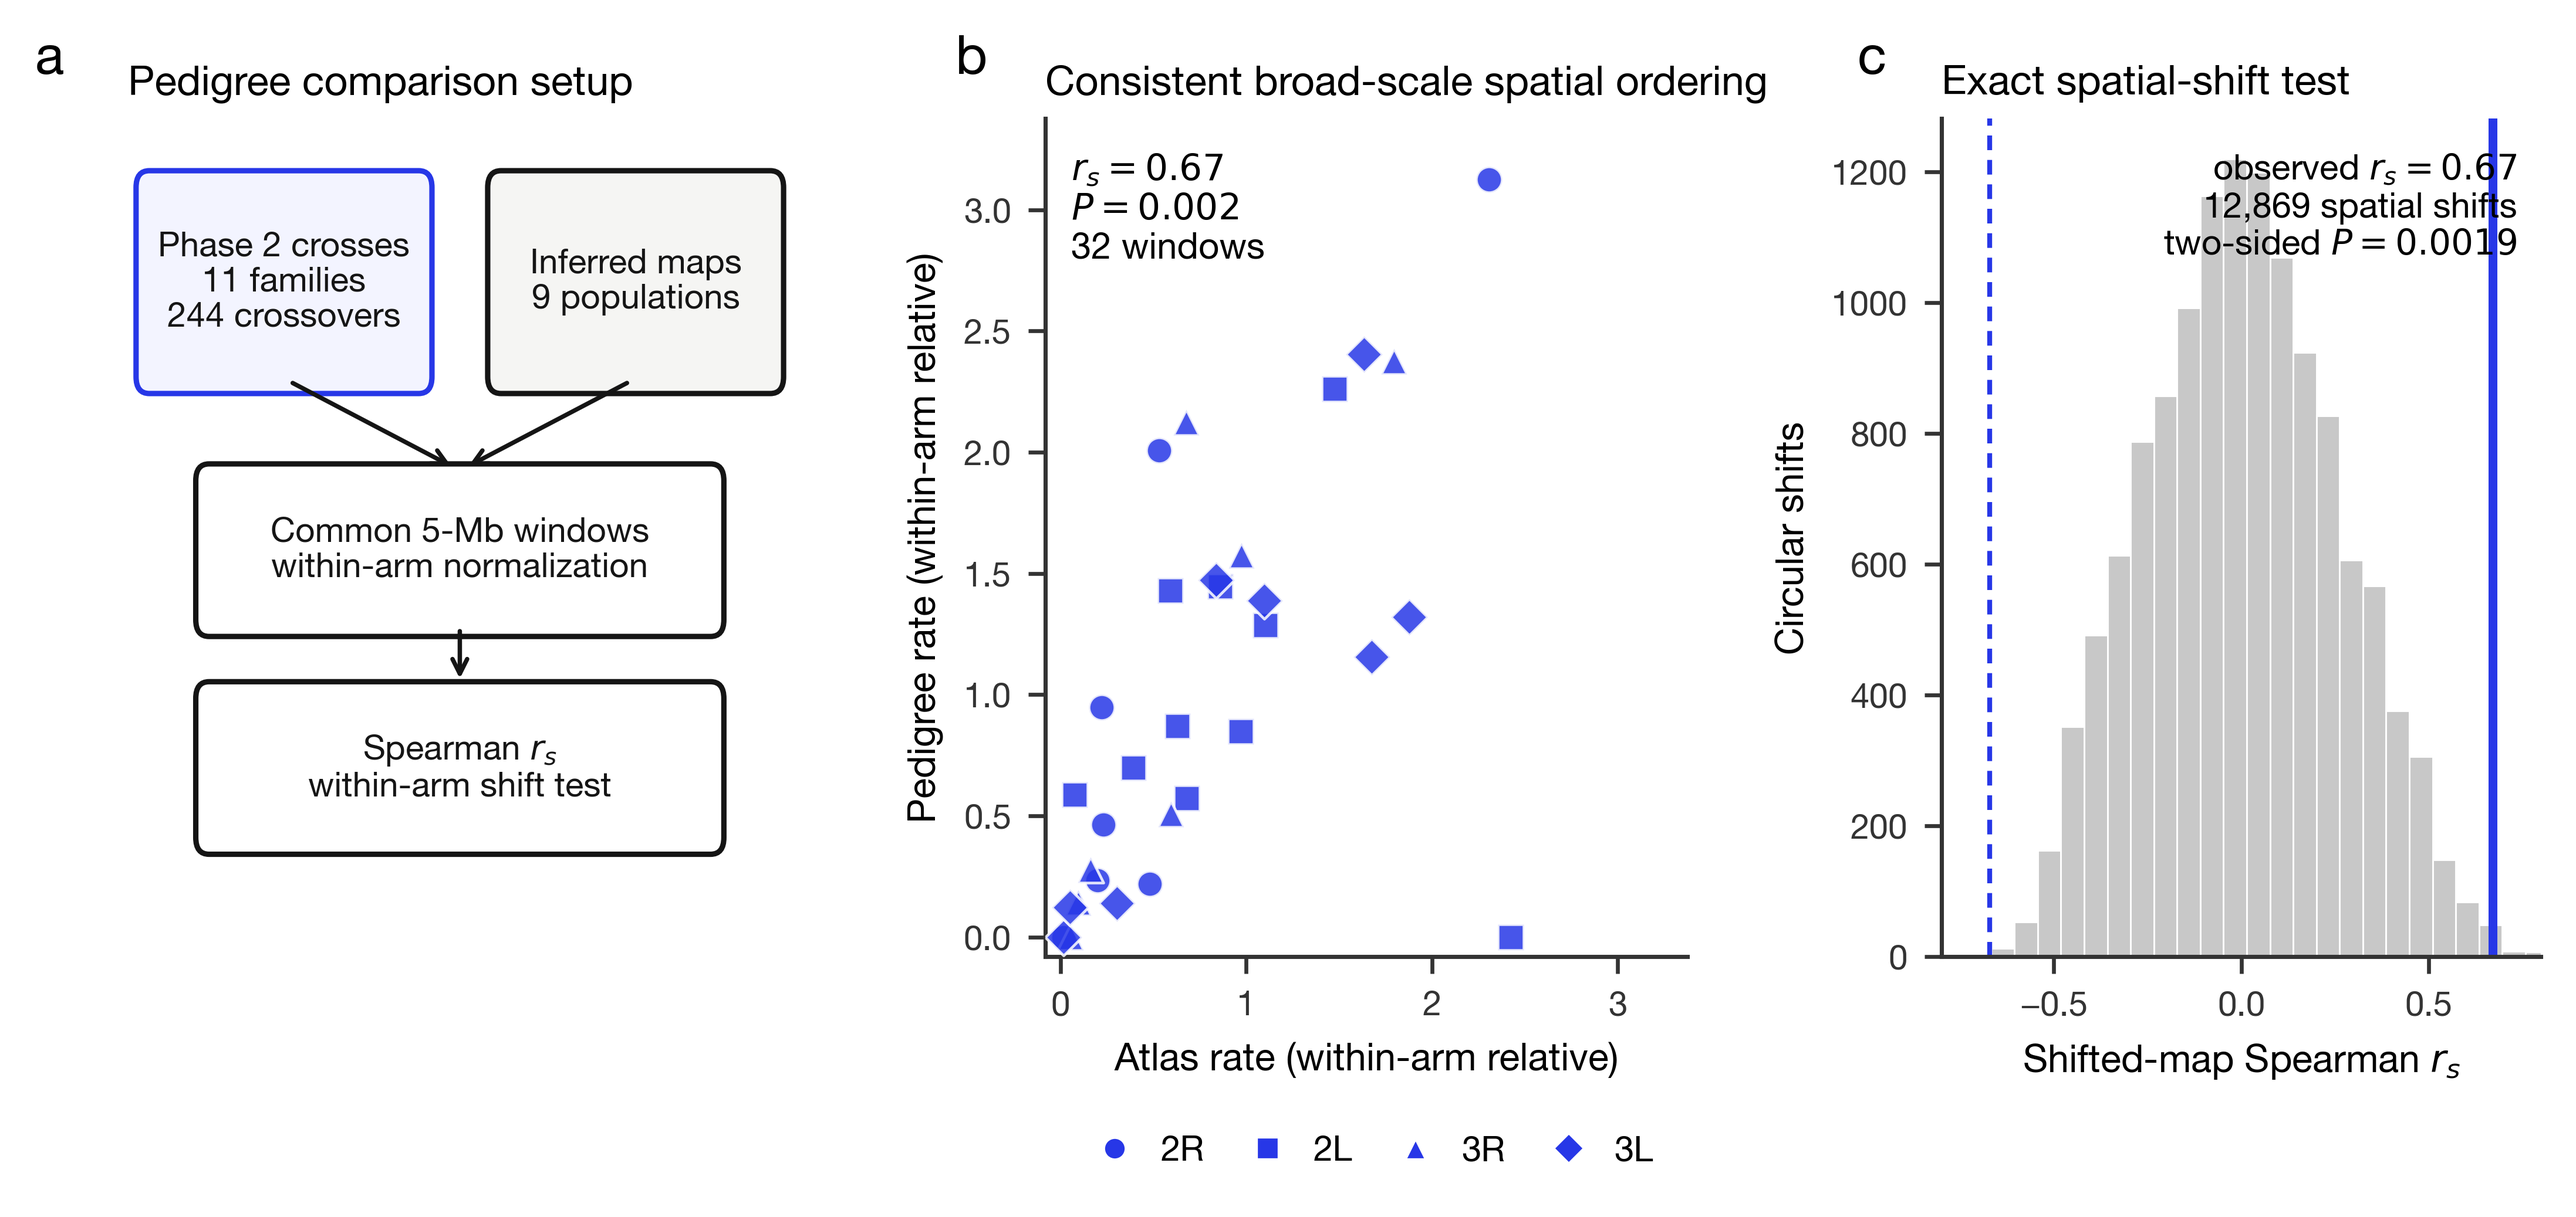
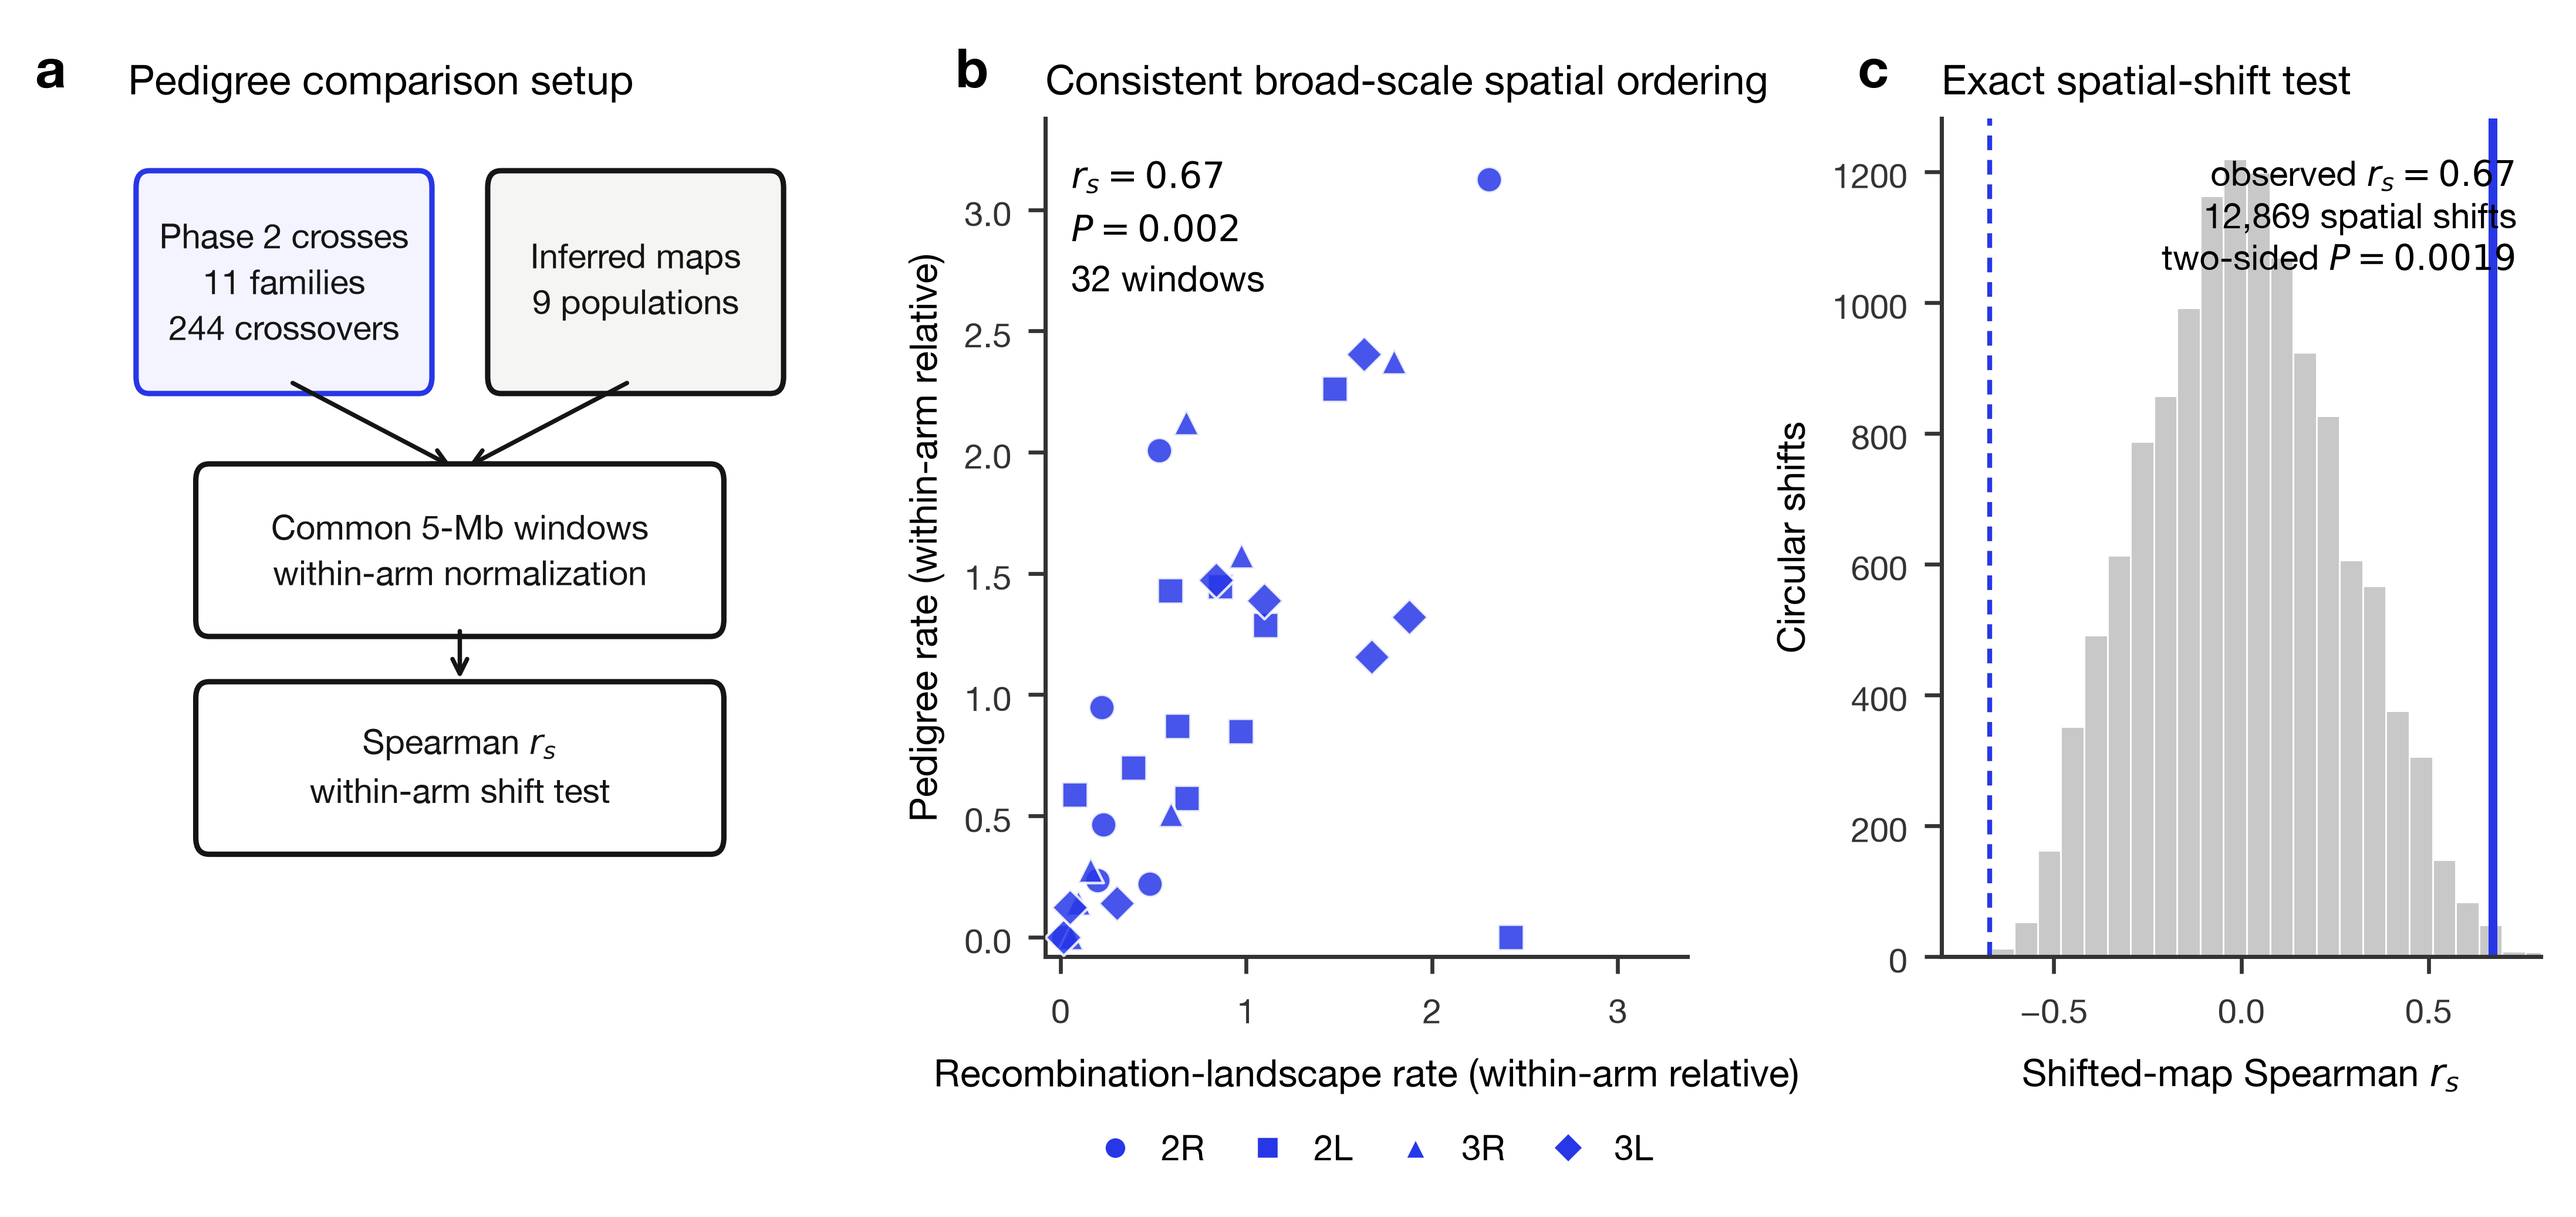
Use recombination landscape terminology in publication

diff --git a/paper/anopheles_variants/common/plot_phase2.py b/paper/anopheles_variants/common/plot_phase2.py
@@ -674,7 +674,7 @@ def pedigree_figure(pedigree: dict, out: Path) -> None:
     ) * 1.08
     ax_b.set_xlim(-0.08, limit)
     ax_b.set_ylim(-0.08, limit)
-    ax_b.set_xlabel("Atlas rate (within-arm relative)")
+    ax_b.set_xlabel("Recombination-landscape rate (within-arm relative)")
     ax_b.set_ylabel("Pedigree rate (within-arm relative)")
     ax_b.set_title("Consistent broad-scale spatial ordering", loc="left", pad=5)
     ax_b.text(
